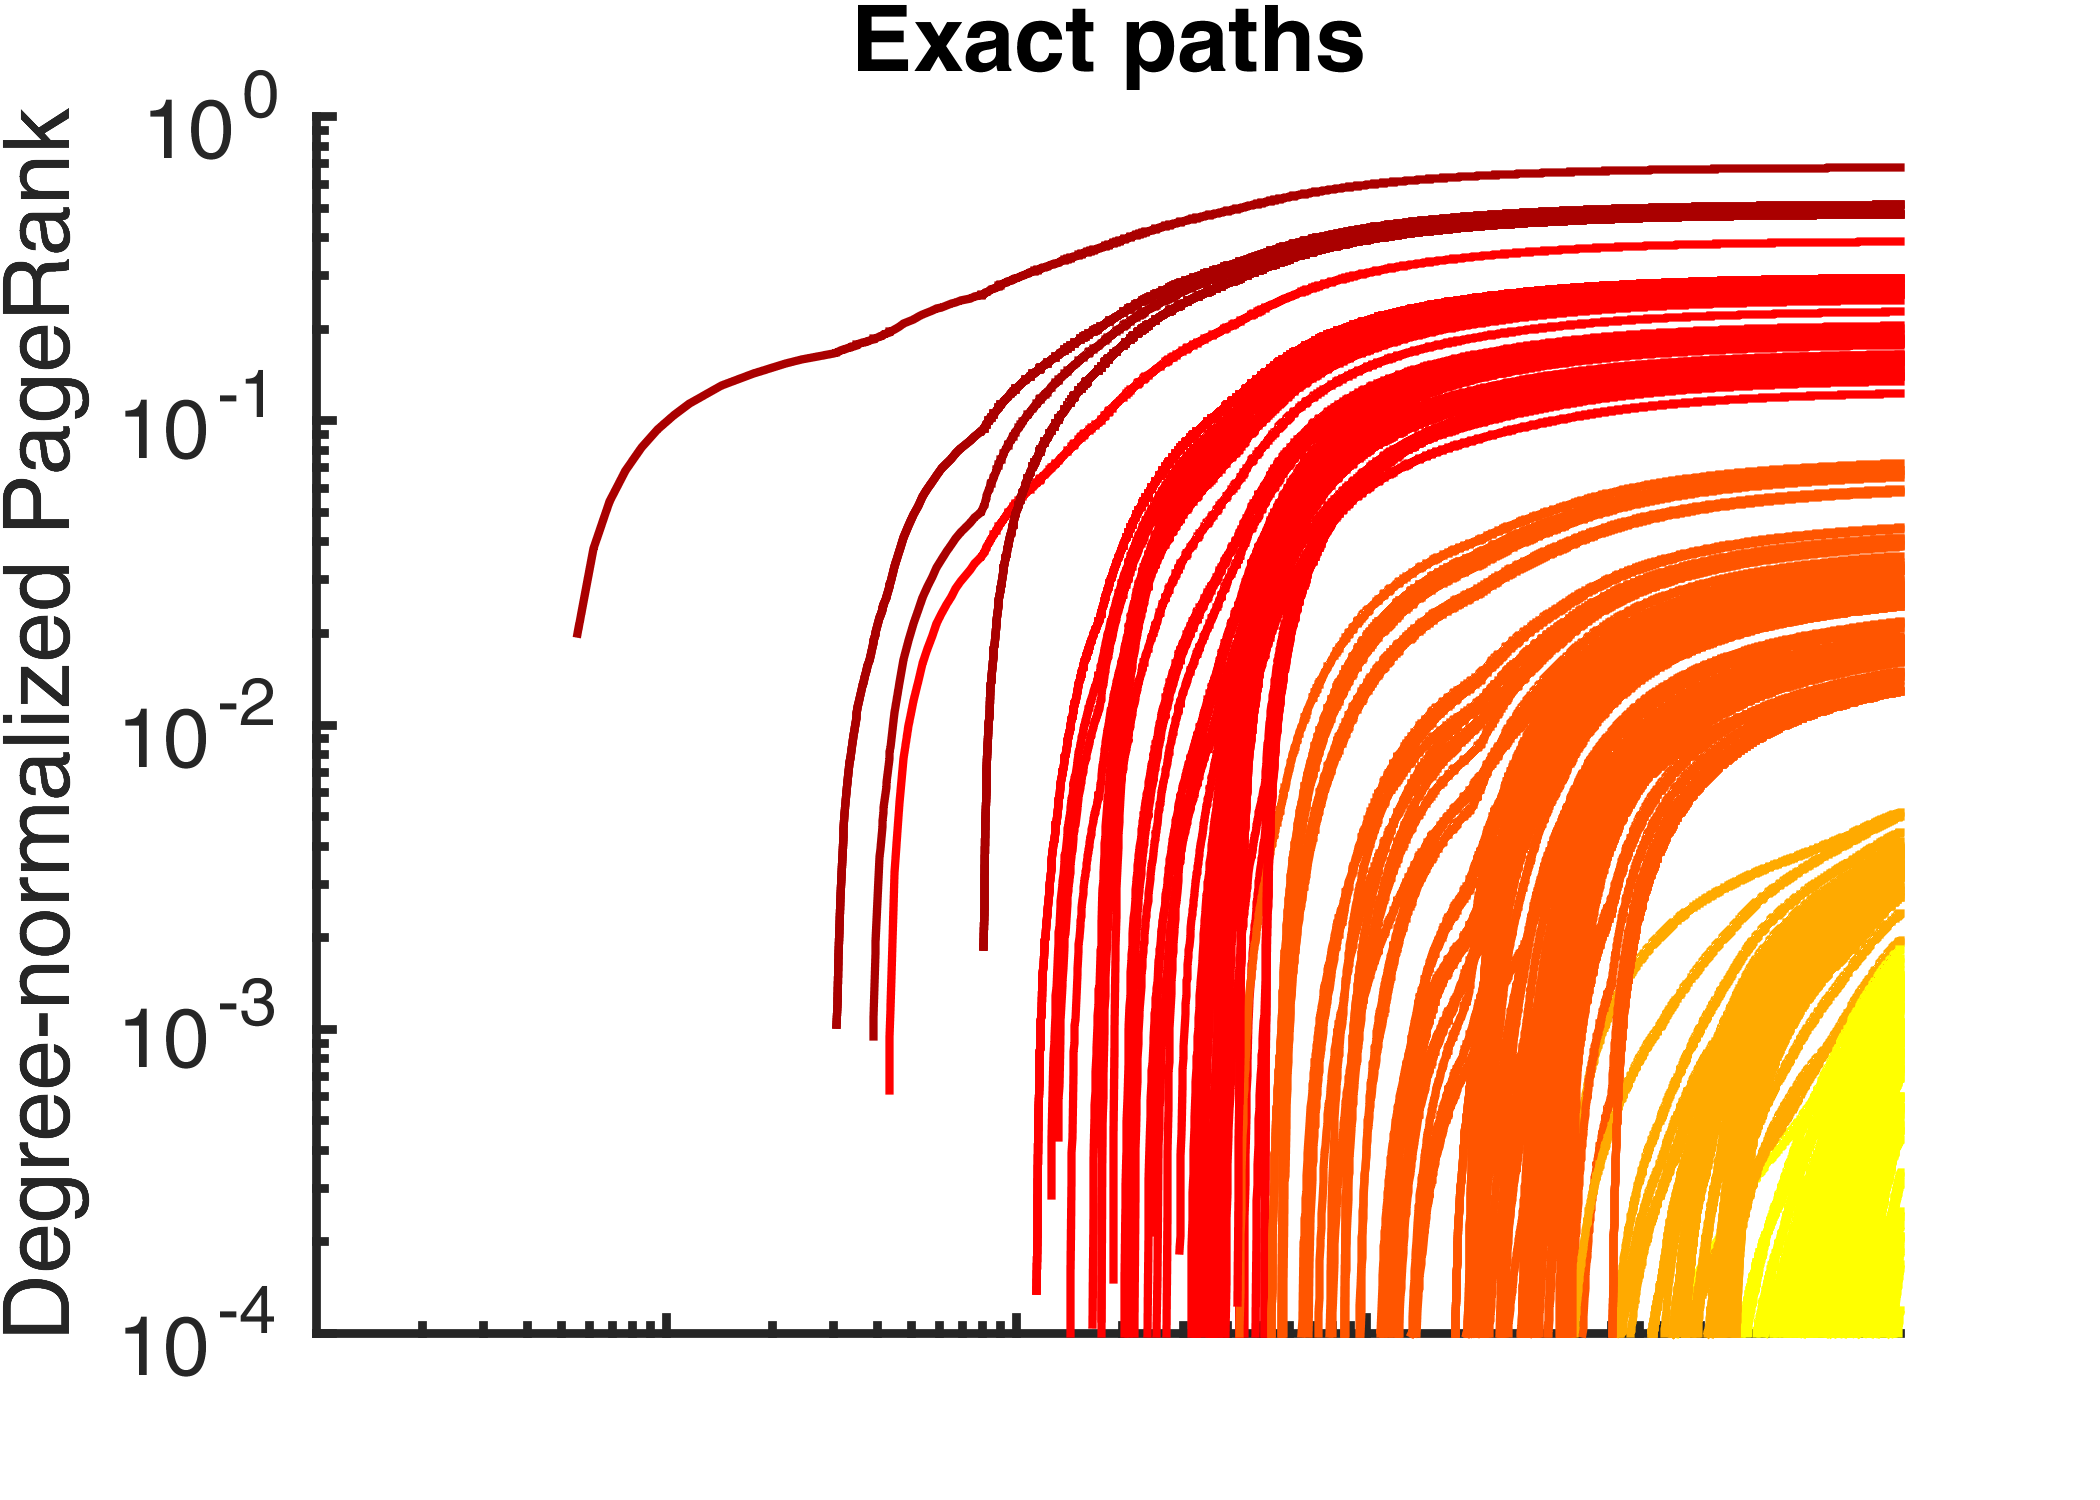
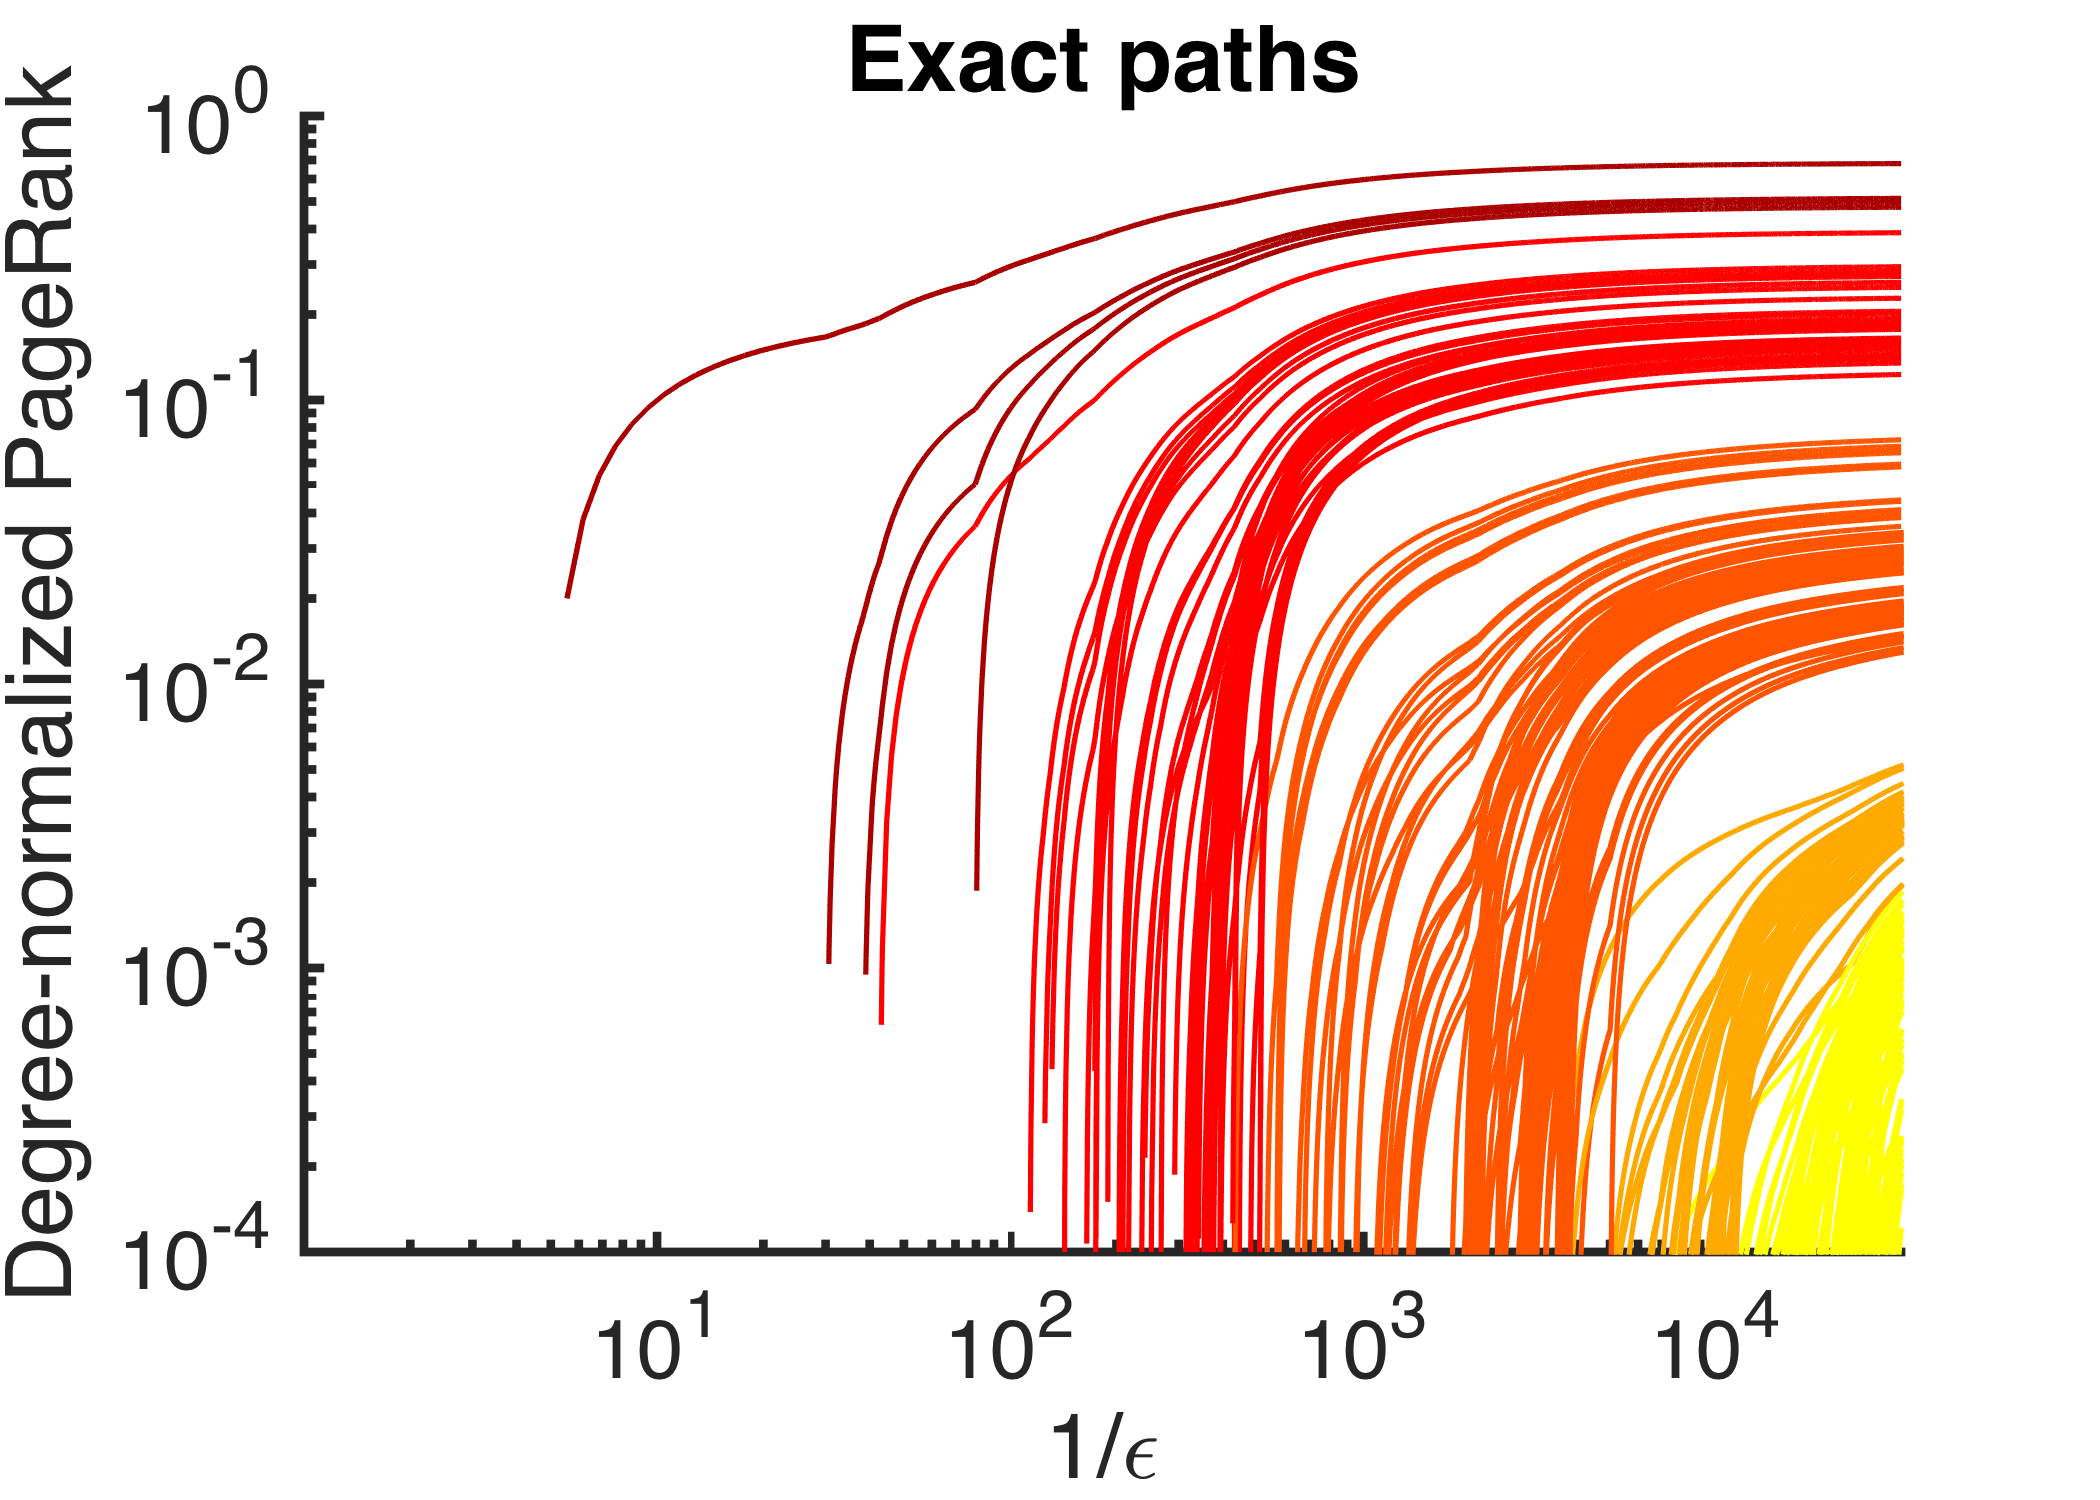
Small changes to scripts for making figures.

diff --git a/experiments/netscience/exact_paths_ACL_backup.m b/experiments/netscience/exact_paths_ACL_backup.m
@@ -97,8 +97,7 @@ box off;
 ylim(yl)
 xlim(xl);
 set(gca,'XTick',[10,100,1000,10000,100000]);
-% set(gca,'XTickLabel','');
-xlabel('1/\epsilon');
+set(gca,'XTickLabel','');
 set_figure_size([3.5,2.5]);
 
 print(gcf, ['../images/netscience-our-path', num2str(seed), '.png'],'-dpng','-r600');  
@@ -198,14 +197,13 @@ box off;
 
 xlim(xl);
 ylim(yl);
-xlabel('1/\epsilon');
 set(gca,'XTick',[10,100,1000,10000,100000]);
-%set(gca,'XTickLabel','');
+set(gca,'XTickLabel','');
 set_figure_size([3.5,2.5]);
 
 print(gcf,['../images/netscience-ACL-path', num2str(seed), '.png'],'-dpng','-r600');
 
-%% Plot conductance for exact paths
+%% Plot conductance for our paths
 fprintf('... and plot conductances for exact paths. \n');
 
 clf;
@@ -224,28 +222,4 @@ set_figure_size([3.5,1.5]);
 
 print(gcf, ['../images/netscience-exact-cond', num2str(seed), '.png'],'-dpng','-r600');  
 
-
-%% PLOT CONDUCTANCE FOR EXACT AND FOR OUR PATHS, OVERLAID
-fprintf('Now, plot conductances for both the exact and approximate paths. \n');
-
-clf;
-plot( 1./eps_subset, rval.ep_stats(eps_inds,2), '-r' )
-hold on
-plot( ((1-alpha)./taus) , minconds, '--b' );
-
-legend('approximate', 'exact', 'Location', 'NorthEast')
-legend boxoff
-
-set(gca,'XScale','log');
-set(gca,'YScale','log');
-
-xlabel('1/\epsilon');
-ylabel('Best \phi');
-box off;
-xlim(xl);
-ylim([ min( rval.ep_stats(:,2)*0.9 ), 1] );
-set(gca,'XTick',[10,100,1000,10000,100000]);
-set_figure_size([4,1.5]);
-
-print(gcf, ['../images/netscience-both-cond', num2str(seed), '.png'],'-dpng','-r600');  
 

diff --git a/experiments/rho_scaling/lj_anomaly.m b/experiments/rho_scaling/lj_anomaly.m
@@ -130,6 +130,9 @@ yl_cond = ylim;
 set(gca,'XTick',[10,100,1000,10000,100000]);
 set_figure_size([3.5,1.5]);
 
+yl = ylim;
+line([1e-5,1e-5],[yl(1), yl(2)],'Color','-k','LineWidth',1);
+
 print(gcf,['./images/lj-seed' num2str(seed) '-rho0-cond.png'],'-dpng','-r600');
 
 fprintf('\n lj rho=0 done.\n');
@@ -253,6 +256,8 @@ xlim(xl);
 ylim(yl_cond);
 set(gca,'XTick',[10,100,1000,10000,100000]);
 set_figure_size([3.5,1.5]);
+yl = ylim;
+line([1e-5,1e-5],[yl(1), yl(2)],'Color','-k','LineWidth',1);
 
 print(gcf,['./images/lj-seed' num2str(seed) '-rho9-cond.png'],'-dpng','-r600');
 
@@ -376,6 +381,8 @@ xlim(xl);
 ylim(yl_cond);
 set(gca,'XTick',[10,100,1000,10000,100000]);
 set_figure_size([3.5,1.5]);
+yl = ylim;
+line([1e-5,1e-5],[yl(1), yl(2)],'Color','-k','LineWidth',1);
 
 print(gcf,['./images/lj-seed' num2str(seed) '-rho9fulleps-cond.png'],'-dpng','-r600');
 
